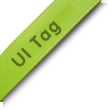
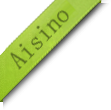
增加了logo 增加了登录的键盘事件

Changed region(s): [[0.0811, 0.0818, 0.6216, 0.6545]]

diff --git a/WebContent/jeecg/plug-in/login/js/login.js b/WebContent/jeecg/plug-in/login/js/login.js
@@ -57,16 +57,7 @@ $('#forgetpass').click(function(e) {
 	$('#'+this.name).val("");
 	});
 });
-// 点击登录
-$('#but_login').click(function(e) {
-	submit();
-});
-//回车登录
-$(document).keydown(function(e){
-	if(e.keyCode == 13) {
-		submit();
-	}
-});
+
 //表单提交
 function submit()
 {
